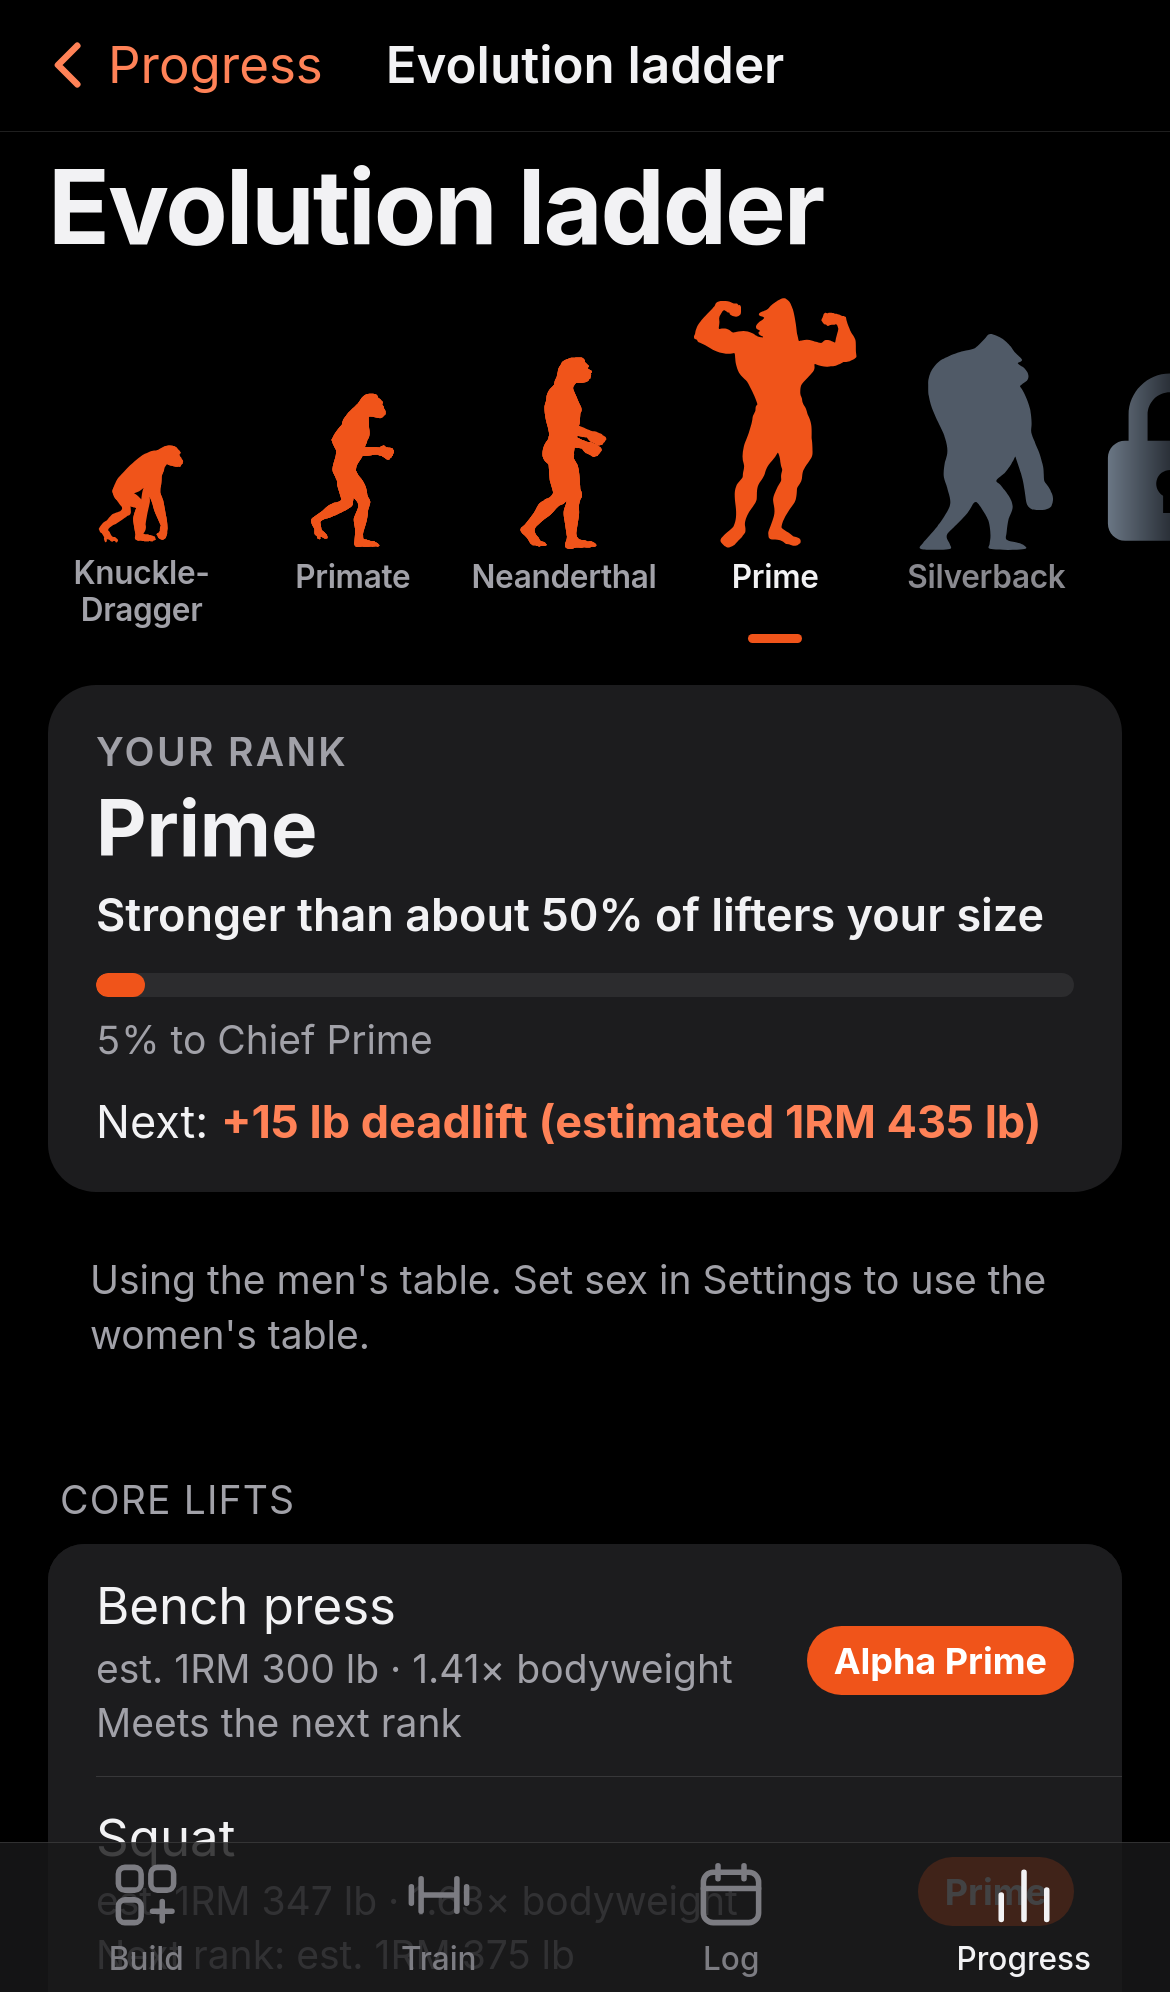
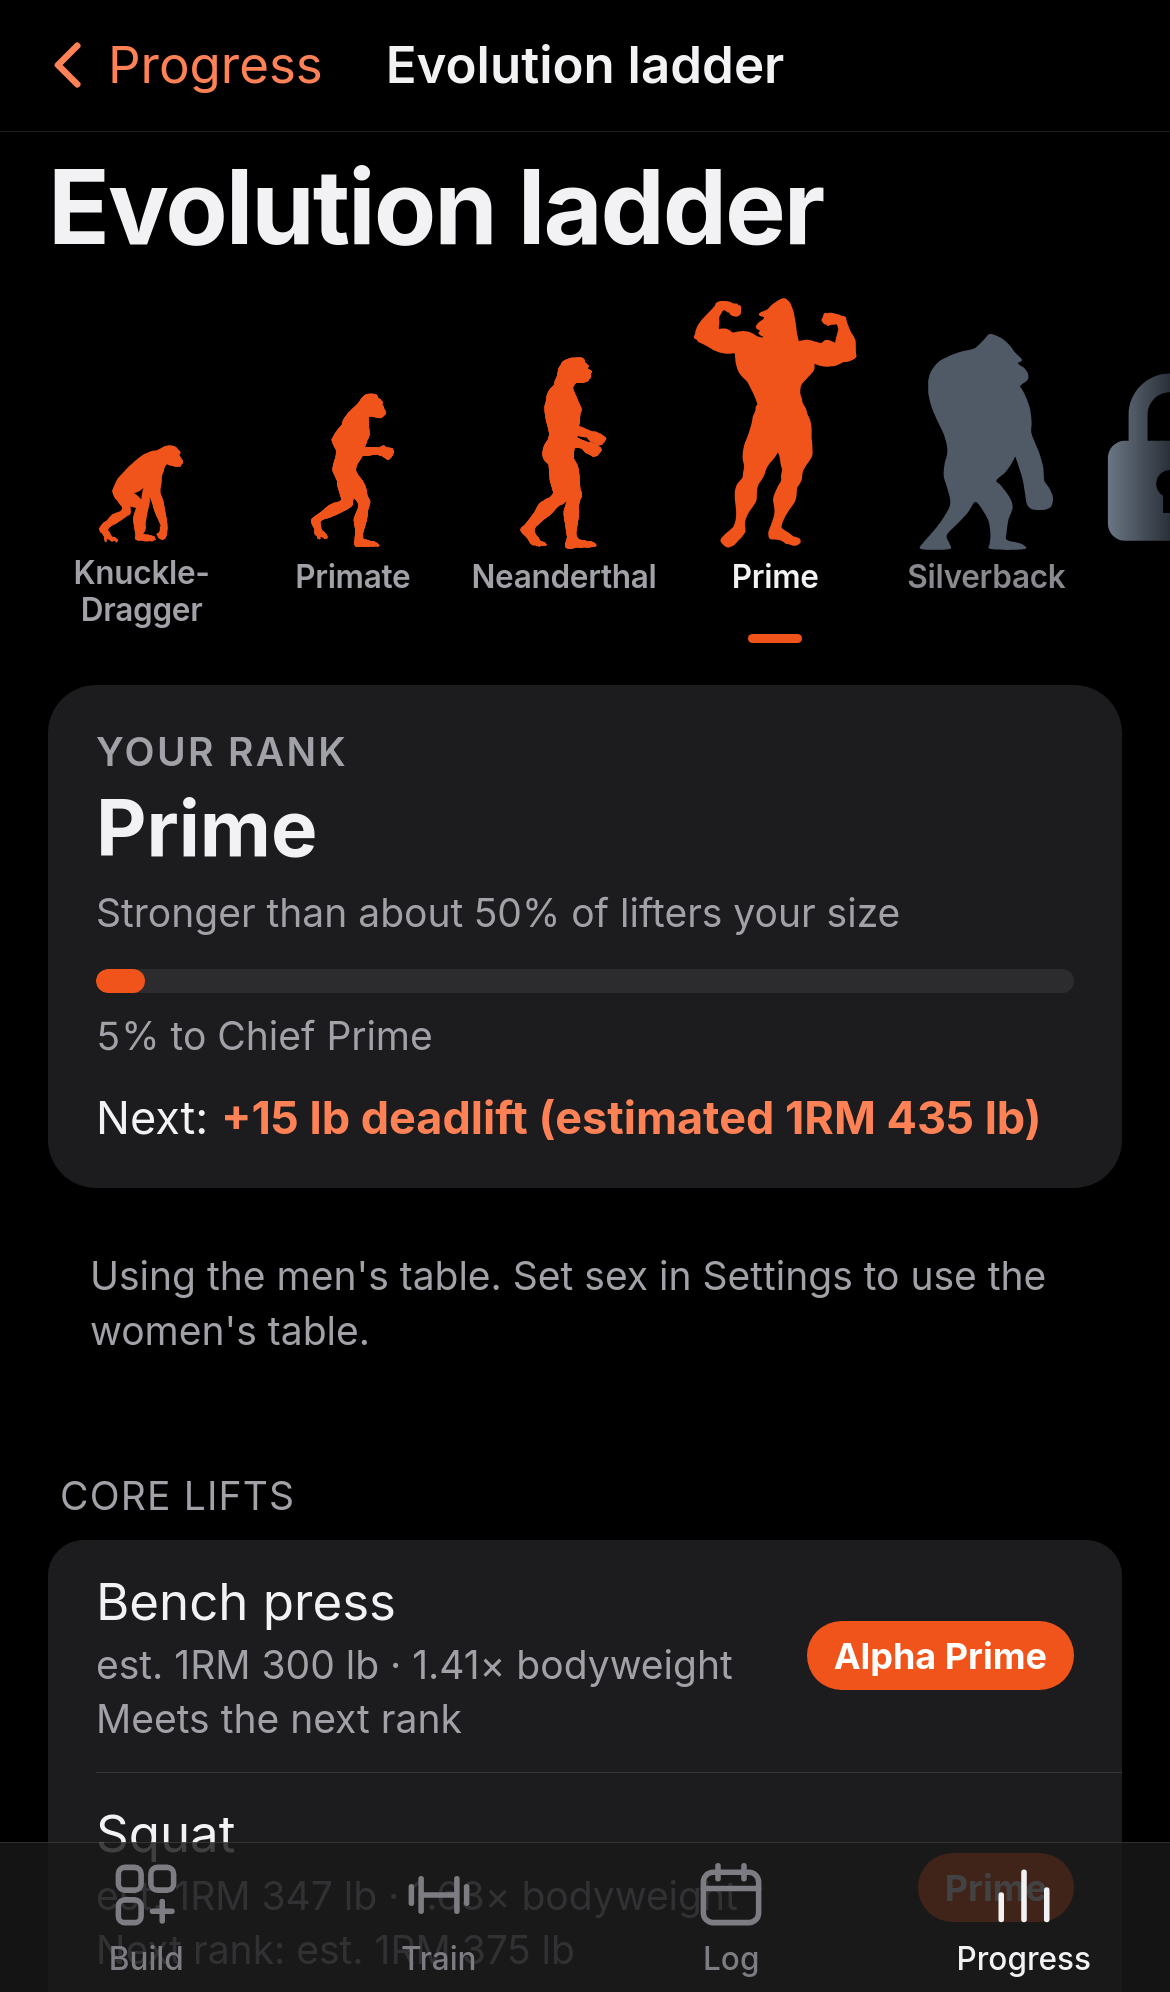
Storyboard: smaller regular-weight secondary percentile line

diff --git a/storyboard/sb.css b/storyboard/sb.css
@@ -1412,7 +1412,7 @@ html[data-theme=dark]{--lad-slate:#5E6A79;--lad-tease:#3A4450;--lock-a:#6A7684;-
 .lnote{font-size:var(--t-foot);color:var(--text-2);margin:8px 0 0}.lnotes{margin:4px var(--s4) 0}.lnotes .lnote{margin:4px 0}
 .lcard .lnext{margin-top:6px;font-size:var(--t-foot)}
 /* swap3: the percentile line under the rank (Coach labels.percentile_line / percentile_line_top) */
-.lpct{margin:4px 0 10px;font-size:var(--t-sub);font-weight:600;color:var(--ink)}.lcard .lpct{font-size:var(--t-foot);margin:2px 0 8px;color:var(--text-2)}
+.lpct{margin:4px 0 10px;font-size:var(--t-foot);font-weight:400;line-height:1.35;color:var(--text-2)}.lcard .lpct{margin:2px 0 8px}
 .lsubst{font-size:10px;font-weight:700;text-transform:uppercase;letter-spacing:.04em;color:var(--text-2);background:var(--fill);border-radius:6px;padding:1px 5px;vertical-align:2px}
 .ltg{color:var(--accent-press)}
 .lchip.hid{background:var(--fill);color:var(--text-2)}
